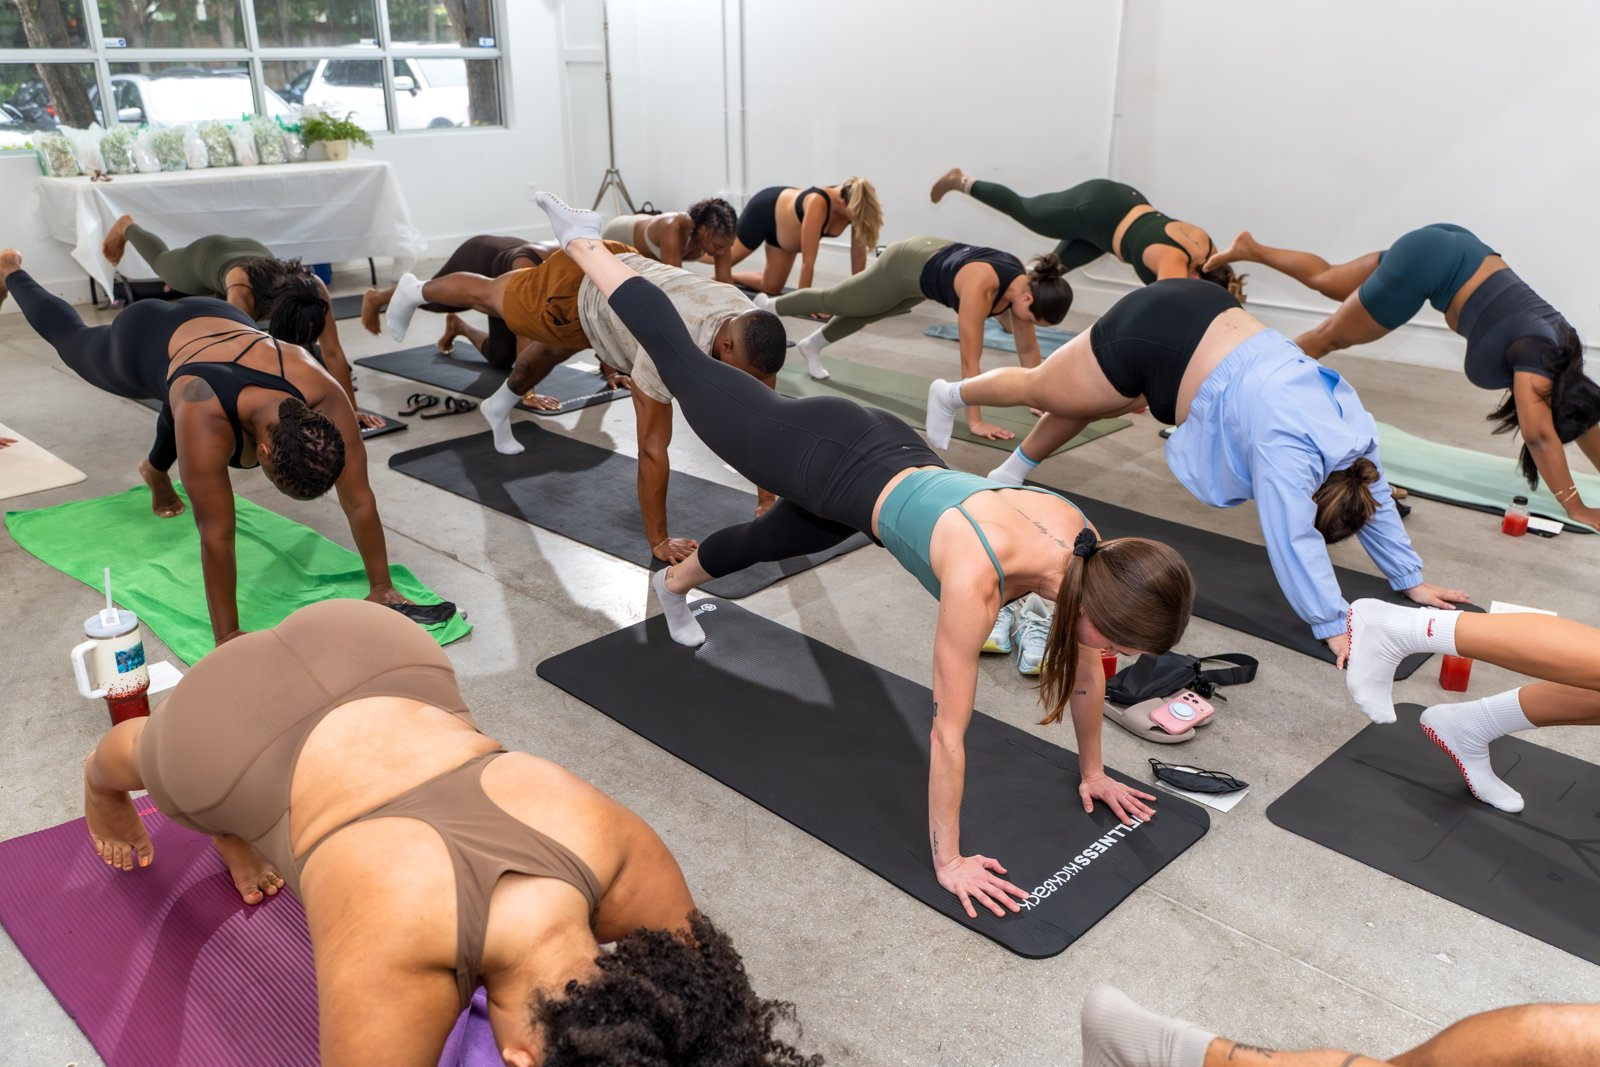
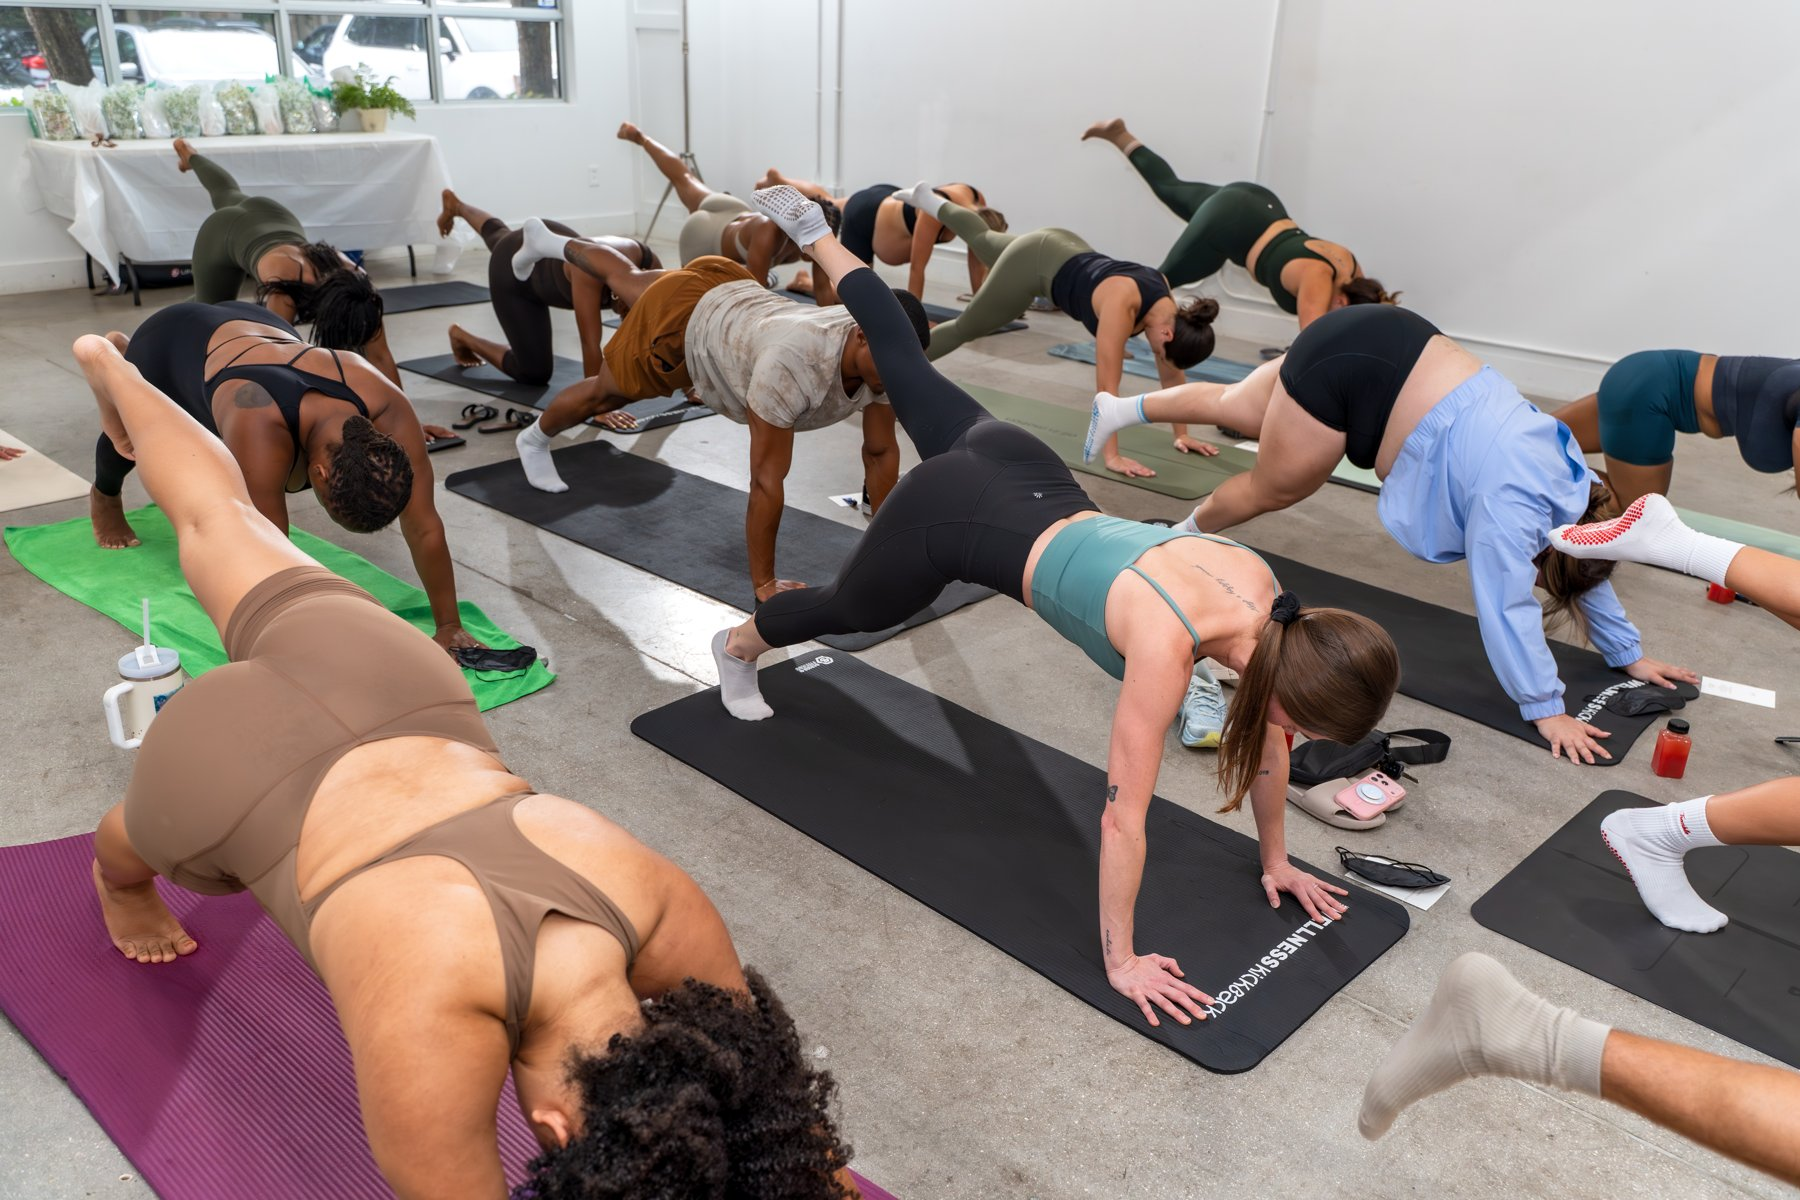
Add files via upload

diff --git a/signature-events.html b/signature-events.html
@@ -63,10 +63,10 @@
   .kw-small .who{font-size:12.5px; letter-spacing:0.02em; color:var(--muted); font-weight:600;}
   @media(max-width:820px){.kw-row{grid-template-columns:1fr; gap:36px;}}
 
-  .join-section{background:var(--sand); text-align:center;}
-  .join-section h2{margin-bottom:14px;}
-  .join-section p{color:var(--muted); max-width:440px; margin:0 auto 8px; font-size:15px;}
-  .join-section .sub{font-size:12.5px; color:var(--muted); margin-bottom:28px;}
+  .join-section{background:var(--sand); text-align:center; padding:80px 0;}
+  .join-section h2{margin-bottom:14px; font-size:clamp(26px,3vw,34px);}
+  .join-section p{color:var(--muted); max-width:420px; margin:0 auto 8px; font-size:15px;}
+  .join-section .sub{font-size:12.5px; color:var(--muted); margin-bottom:26px;}
   .join-form{display:flex; gap:12px; max-width:460px; margin:0 auto; flex-wrap:wrap; justify-content:center;}
   .join-form input{flex:1; min-width:160px; padding:13px 16px; border:1px solid var(--line); border-radius:100px; background:var(--bg); font-size:14px; font-family:'Montserrat',sans-serif; color:var(--ink);}
   .join-form button{padding:13px 26px; background:var(--clay); color:var(--bg); border:none; border-radius:100px; font-size:12px; letter-spacing:0.05em; text-transform:uppercase; font-weight:600; cursor:pointer;}
@@ -82,6 +82,17 @@
   .pause-lead{font-size:clamp(32px,4.2vw,46px);}
   .pause-body{font-size:17.5px;}
   .final-cta{margin-top:40px;}
+  .stats-section{padding:70px 0;}
+  .stats-heading{text-align:center; font-size:clamp(24px,2.8vw,32px); font-weight:400; margin-bottom:48px;}
+  .stats-row{display:flex; justify-content:center; align-items:stretch; text-align:center;}
+  .stat-item{flex:1; max-width:260px; padding:0 32px; border-left:1px solid var(--line);}
+  .stat-item:first-child{border-left:none;}
+  .stat-num{font-family:'Solea','Montserrat',sans-serif; font-size:clamp(36px,4.4vw,52px); color:var(--ink); line-height:1; margin-bottom:12px;}
+  .stat-label{font-size:13px; color:var(--muted); letter-spacing:0.02em;}
+  @media(max-width:700px){
+    .stats-row{flex-direction:column; gap:36px; align-items:center;}
+    .stat-item{border-left:none; padding:0; max-width:none;}
+  }
 </style>
 </head>
 <body>
@@ -111,14 +122,34 @@
   </div>
 </header>
 <section class="se-hero" style="padding:0;">
-  <img src="signature-hero.jpg" alt="Guests moving together at a SOLEI Signature Event" style="width:100%; height:100%; object-fit:cover; object-position:60% 30%; display:block;">
+  <img src="signature-hero.jpg" alt="Guests moving together at a SOLEI Signature Event" style="width:100%; height:100%; object-fit:cover; object-position:center 40%; display:block;">
   <div class="se-hero-caption">
     <div class="eyebrow">Signature Events</div>
     <h1>Move. Connect. Escape.</h1>
     <p>Curated wellness experiences created by SOLEI to bring people together through movement, connection, and meaningful moments.</p>
     <div class="se-hero-ctas">
-      <a class="label-link" href="#join">Join the SOLEI List</a>
+      <a class="label-link" href="#join">Join the List</a>
       <a class="secondary-link" href="#past">Explore Past Events</a>
+    </div>
+  </div>
+</section>
+
+<section class="stats-section">
+  <div class="wrap">
+    <h2 class="stats-heading">Growing a Community Through Movement</h2>
+    <div class="stats-row">
+      <div class="stat-item">
+        <div class="stat-num">2</div>
+        <div class="stat-label">Signature Events Hosted</div>
+      </div>
+      <div class="stat-item">
+        <div class="stat-num">50+</div>
+        <div class="stat-label">Attendees Welcomed</div>
+      </div>
+      <div class="stat-item">
+        <div class="stat-num">100%</div>
+        <div class="stat-label">Sold-Out Community Events</div>
+      </div>
     </div>
   </div>
 </section>
@@ -136,7 +167,7 @@
       <div class="eyebrow" style="margin-bottom:16px;">Coming Up</div>
       <h2>Something New Is Coming</h2>
       <p>The next SOLEI experience is currently being thoughtfully planned. Join the list to be the first to receive event details and early registration access.</p>
-      <a class="label-link" href="#join">Join the SOLEI List</a>
+      <a class="label-link" href="#join">Join the List</a>
     </div>
   </div>
 </section>
@@ -215,7 +246,7 @@
 <section class="look-section" style="background:var(--sand);">
   <div class="wrap">
     <div class="section-head" style="display:block;">
-      <h2 class="look-heading">The SOLEI Experience</h2>
+      <h2 class="look-heading">Inside a SOLEI Event</h2>
     </div>
     <div class="look-hero"><img src="look-hero.jpg" alt="Guests connecting after a SOLEI class" style="object-position:center 40%;"></div>
     <div class="look-row">
@@ -252,11 +283,11 @@
   <div class="wrap">
     <h2>Be the First to Know</h2>
     <p>Join the SOLEI list for early access to upcoming events, community gatherings, and special announcements.</p>
-    <p class="sub">No clutter. Just meaningful updates and invitations from SOLEI.</p>
+    <p class="sub">No clutter—just meaningful updates and invitations from SOLEI.</p>
     <form class="join-form" onsubmit="soleiSubmit(event, 'https://formspree.io/f/mjgnanrr', 'Thanks for joining the SOLEI list — we\'ll be in touch with upcoming event details.')">
       <input type="text" name="First Name" placeholder="First name" required>
       <input type="email" name="Email" placeholder="Email address" required>
-      <button type="submit">Join the SOLEI List</button>
+      <button type="submit">Join the List</button>
     </form>
   </div>
 </section>
@@ -295,7 +326,7 @@
   <div class="wrap">
     <h2>Your Next SOLEI Moment Is Waiting.</h2>
     <p>Come for the movement. Stay for the connection. Leave feeling stronger than when you arrived.</p>
-    <a class="label-link" href="#join">Join the SOLEI List</a>
+    <a class="label-link" href="#join">Join the List</a>
   </div>
 </section>
 
